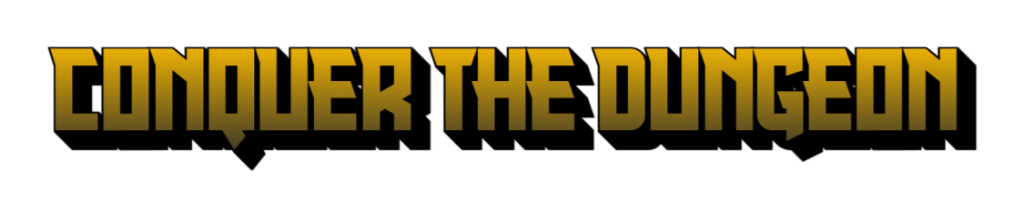
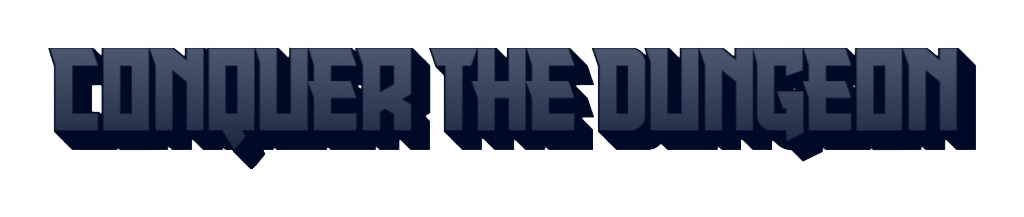
Make button better

diff --git a/IntroWorld.java b/IntroWorld.java
@@ -13,14 +13,14 @@ public class IntroWorld extends SuperWorld
 {
     private GreenfootSound introWorldMusic; 
 
-    TextBox title;
+    Picture title;
 
     private int actCount;
     // Images from /u/Voidentir at https://old.reddit.com/r/DigitalArt/comments/1akfavq/my_old_landscape_artworks/
     private static String[] backgroundImages = new String[] {
-        "landscape1.png",
-        "landscape2.png",
-        "landscape3.png"
+        "title1.jpg",
+        "title2.jpg",
+        "title3.jpg"
     };
     //private TextBox buttonText2;
     private Picture currentImage;
@@ -37,10 +37,10 @@ public class IntroWorld extends SuperWorld
 
         setPaintOrder( TextBox.class, Button.class, Picture.class);
         
-        title = new TextBox("Conquer The Dungeon", 86, Color.BLACK, null, 2, 0);
-        Button button = new Button(this::startGame, 200, 80);
-        Button button2 = new Button(this::loadGame, 200, 80);
-        Button deleteDataButton = new Button(this::deleteGame, 200, 80);
+        title = new Picture("titletext.png");
+        Button button = new Button(this::startGame, 200, 80, new GreenfootImage("button.png"), new GreenfootImage("button2.png"), new GreenfootImage("button3.png"));
+        Button button2 = new Button(this::loadGame, 200, 80, new GreenfootImage("button.png"), new GreenfootImage("button2.png"), new GreenfootImage("button3.png"));
+        Button deleteDataButton = new Button(this::deleteGame, 200, 80, new GreenfootImage("button.png"), new GreenfootImage("button2.png"), new GreenfootImage("button3.png"));
         TextBox buttonText1 = new TextBox("START", 32, Color.BLACK, null, 0, 255);
         TextBox buttonText2 = new TextBox("LOAD DATA", 32, Color.BLACK, null, 0, 255);        // This is a temporary prompt.)
         TextBox deleteDataText = new TextBox("DELETE DATA", 32, Color.BLACK, null, 0, 255);
@@ -64,10 +64,10 @@ public class IntroWorld extends SuperWorld
         Greenfoot.setSpeed(50); // Control speed to 50.
         addObject(button, getWidth()/2, getHeight()/2);
         addObject(button2, getWidth()/2, getHeight()/2 + 100);
-        addObject(buttonText1, getWidth()/2, getHeight()/2);
-        addObject(buttonText2, getWidth()/2, getHeight()/2 + 100);
+        addObject(buttonText1, getWidth()/2, getHeight()/2 - 6);
+        addObject(buttonText2, getWidth()/2, getHeight()/2 + 94);
         addObject(deleteDataButton, getWidth()/2, getHeight()/2+200);
-        addObject(deleteDataText, getWidth()/2, getHeight()/2+200);
+        addObject(deleteDataText, getWidth()/2, getHeight()/2+194);
         
         GameData.resetData();
     }
@@ -122,7 +122,7 @@ public class IntroWorld extends SuperWorld
         currentImage = nextImage;
         nextImage = new Picture(backgroundImages[nextIndex()]); // have next image prepared.
         nextImage.setTransparency(0); // set its transparency to 0 so it can fade in.
-        nextImage.setTranslation(Utility.randomVector(0.5, 1, 0.2, 0.5));
+        nextImage.setTranslation(Utility.randomVector(0.2, 0.5, 0.075, 0.2));
     }
     /**
      * Returns the next index for the next picture to use.
